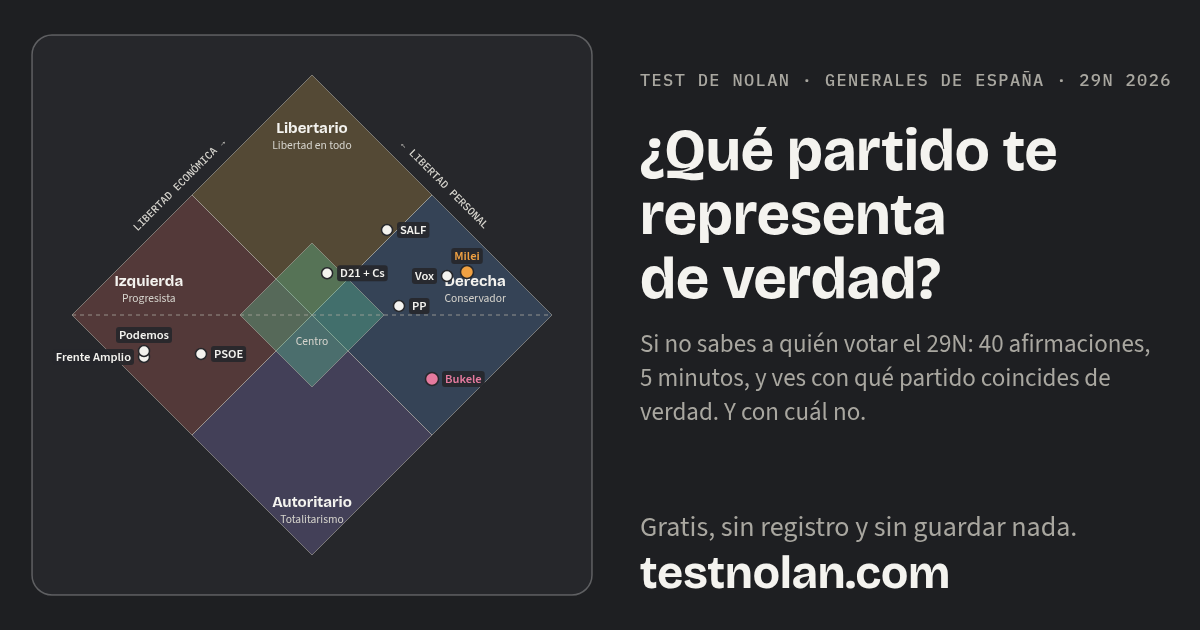
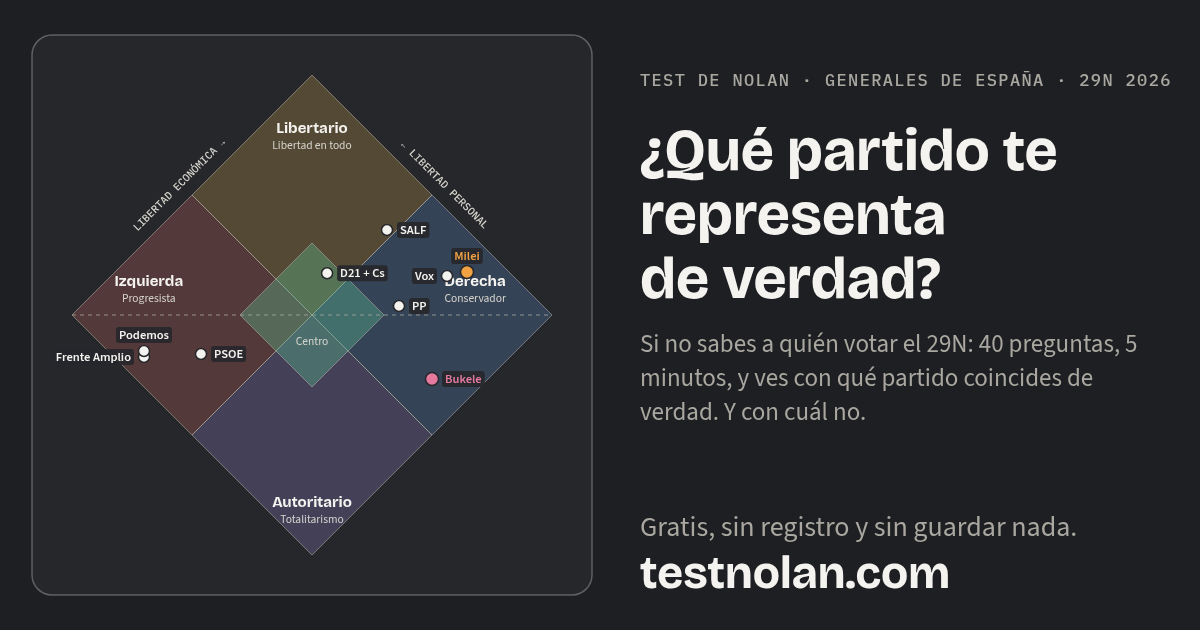
Hablar de preguntas, no de afirmaciones
En todo lo que ve el usuario (portada, cifras, metadescripción, avisos,
imagen de portada y metodología) se dice «preguntas». «Afirmación» queda solo
en la frase que explica la escala: cada pregunta es una afirmación con la que
se puede estar más o menos de acuerdo. Mismo criterio en el README y en
LICENSE-DATA.

Changed region(s): [[0.5242, 0.5127, 0.9558, 0.6333]]

diff --git a/public/es/index.html b/public/es/index.html
@@ -4,7 +4,7 @@
 <meta charset="utf-8">
 <meta name="viewport" content="width=device-width, initial-scale=1, viewport-fit=cover">
 <title>Test de Nolan · Elecciones generales de España 29N 2026</title>
-<meta name="description" content="¿No sabes a quién votar el 29N? Test de Nolan para las elecciones generales de España 2026: 40 afirmaciones, 5 minutos, y ves qué partido te representa de verdad y en qué no coincides con él. PP, PSOE, Vox, Frente Amplio, Podemos, SALF y D21 + Cs. Sin registro y sin guardar nada.">
+<meta name="description" content="¿No sabes a quién votar el 29N? Test de Nolan para las elecciones generales de España 2026: 40 preguntas, 5 minutos, y ves qué partido te representa de verdad y en qué no coincides con él. PP, PSOE, Vox, Frente Amplio, Podemos, SALF y D21 + Cs. Sin registro y sin guardar nada.">
 <link rel="canonical" href="https://testnolan.com/es/">
 <meta name="theme-color" content="#1e1f22">
 
@@ -12,7 +12,7 @@
 <meta property="og:locale" content="es_ES">
 <meta property="og:site_name" content="Test Nolan">
 <meta property="og:title" content="¿Qué partido te representa de verdad? Test de Nolan · 29N 2026">
-<meta property="og:description" content="Si no sabes a quién votar el 29N, 40 afirmaciones y 5 minutos te dicen con qué partido coincides de verdad, y en qué no. Sin registro y sin guardar nada.">
+<meta property="og:description" content="Si no sabes a quién votar el 29N, 40 preguntas y 5 minutos te dicen con qué partido coincides de verdad, y en qué no. Sin registro y sin guardar nada.">
 <meta property="og:url" content="https://testnolan.com/es/">
 <meta property="og:image" content="https://testnolan.com/og-image.png">
 <meta property="og:image:width" content="1200">
@@ -20,7 +20,7 @@
 <meta property="og:image:alt" content="Rombo de Nolan con la posición de los partidos españoles para las elecciones del 29 de noviembre de 2026">
 <meta name="twitter:card" content="summary_large_image">
 <meta name="twitter:title" content="¿Qué partido te representa de verdad? Test de Nolan · 29N 2026">
-<meta name="twitter:description" content="Si no sabes a quién votar el 29N, 40 afirmaciones y 5 minutos te dicen con qué partido coincides de verdad, y en qué no.">
+<meta name="twitter:description" content="Si no sabes a quién votar el 29N, 40 preguntas y 5 minutos te dicen con qué partido coincides de verdad, y en qué no.">
 <meta name="twitter:image" content="https://testnolan.com/og-image.png">
 <meta name="twitter:image:alt" content="Rombo de Nolan con la posición de los partidos españoles para las elecciones del 29 de noviembre de 2026">
 
@@ -379,7 +379,7 @@ body.og #shareCanvas{display:block;width:1200px;height:630px}
   <header class="hero" id="top">
     <div class="hero-txt">
       <h1>¿Qué partido te representa de verdad?</h1>
-      <p class="lede">¿Vas a votar «al menos malo» sin saber muy bien en qué se diferencian? Responde 40 afirmaciones en 5 minutos y mira dónde caes en el rombo junto a PP, PSOE, Vox, Frente Amplio, Podemos, SALF y D21 + Cs: qué partido se parece más a ti y en qué discrepas con él sin saberlo. Luego pásaselo a tus amigos y descubre quién es el facha y quién el rojo del grupo. Los nombres y las puntuaciones viajan en el enlace, así que podéis ir sumándoos al mismo rombo.</p>
+      <p class="lede">¿Vas a votar «al menos malo» sin saber muy bien en qué se diferencian? Responde 40 preguntas en 5 minutos y mira dónde caes en el rombo junto a PP, PSOE, Vox, Frente Amplio, Podemos, SALF y D21 + Cs: qué partido se parece más a ti y en qué discrepas con él sin saberlo. Luego pásaselo a tus amigos y descubre quién es el facha y quién el rojo del grupo. Los nombres y las puntuaciones viajan en el enlace, así que podéis ir sumándoos al mismo rombo.</p>
     </div>
     <div class="hero-chart">
       <div class="panel chart-wrap">
@@ -394,7 +394,7 @@ body.og #shareCanvas{display:block;width:1200px;height:630px}
   </header>
   <section class="facts-wrap" aria-label="Datos del test">
   <ul class="facts">
-    <li><span class="num" id="factQ">40</span><span class="lbl">afirmaciones</span></li>
+    <li><span class="num" id="factQ">40</span><span class="lbl">preguntas</span></li>
     <li><span class="num" id="factT">8</span><span class="lbl">ámbitos</span></li>
     <li><span class="num">7</span><span class="lbl">partidos del 29N</span></li>
     <li><span class="num">5</span><span class="lbl">minutos</span></li>
@@ -477,10 +477,10 @@ body.og #shareCanvas{display:block;width:1200px;height:630px}
       <p>El gráfico se hizo popular a partir de 1987, cuando Marshall Fritz, fundador de Advocates for Self-Government, lo retocó hasta dejarlo en el rombo girado de ahora y lo acompañó de un cuestionario de diez preguntas, el «World's Smallest Political Quiz», que desde que está en internet se ha hecho más de 28 millones de veces. La <em>brújula política</em> que circula por internet desde 2001 es una variante de la misma idea, con otros nombres en los ejes y dibujada como un cuadrado en vez de un rombo.</p>
       <div class="blk">
       <h3>Para qué te sirve a ti</h3>
-      <p>Para votar sabiendo lo que compras. Cuando respondes a afirmaciones concretas en vez de preguntarte si eres de izquierdas o de derechas pasan dos cosas. La primera es que descubres que tus opiniones no son un paquete cerrado y que coincides con partidos distintos en temas distintos. La segunda es que ves de golpe en qué <em>no</em> coincides con el partido al que pensabas votar, que es justo lo que los programas y los mítines no te cuentan. Esto no te dice a quién votar. Te dice con qué estarías tragando sin estar de acuerdo, y eso ya es más de lo que suele saber un votante.</p>
+      <p>Para votar sabiendo lo que compras. Cuando respondes a preguntas concretas en vez de preguntarte si eres de izquierdas o de derechas pasan dos cosas. La primera es que descubres que tus opiniones no son un paquete cerrado y que coincides con partidos distintos en temas distintos. La segunda es que ves de golpe en qué <em>no</em> coincides con el partido al que pensabas votar, que es justo lo que los programas y los mítines no te cuentan. Esto no te dice a quién votar. Te dice con qué estarías tragando sin estar de acuerdo, y eso ya es más de lo que suele saber un votante.</p>
       </div>
-      <p>Aquí lo hemos aplicado a las <strong>elecciones generales de España del 29 de noviembre de 2026</strong>: los siete partidos principales responden las mismas 40 afirmaciones que tú, con lo que dicen sus programas, lo que han votado en el Congreso y lo que declaran sus dirigentes.</p>
-      <p><strong>¿Y qué pintan Milei y Bukele?</strong> Están de referencia, y a propósito. Se les mete en el mismo saco, el de la nueva derecha, y en el rombo están a <span id="refCmp">43 puntos, una distancia parecida a la que separa al PP del PSOE (54)</span>. La diferencia está en qué discrepan: Milei y Bukele chocan en libertades personales, con <span id="refGap">29</span> puntos de diferencia, y el PP y el PSOE chocan en economía. Por eso unos comparten lado y los otros no. Esa es la gracia del gráfico. No toda la derecha es igual ni toda la izquierda es igual, y que un partido te quede cerca no quiere decir que pienses como él en todo. Ojo con Milei: su libertarismo es sobre todo económico. Como presidente ha endurecido las expulsiones, las penas y el poder de la policía, ha limitado las protestas y ha recortado el acceso al aborto, y eso es lo que puntúa aquí. A los dos se les puntúa solo con lo que han hecho, y las afirmaciones que son debates españoles sin equivalente en su país quedan sin dato.</p>
+      <p>Aquí lo hemos aplicado a las <strong>elecciones generales de España del 29 de noviembre de 2026</strong>: los siete partidos principales responden las mismas 40 preguntas que tú, con lo que dicen sus programas, lo que han votado en el Congreso y lo que declaran sus dirigentes.</p>
+      <p><strong>¿Y qué pintan Milei y Bukele?</strong> Están de referencia, y a propósito. Se les mete en el mismo saco, el de la nueva derecha, y en el rombo están a <span id="refCmp">43 puntos, una distancia parecida a la que separa al PP del PSOE (54)</span>. La diferencia está en qué discrepan: Milei y Bukele chocan en libertades personales, con <span id="refGap">29</span> puntos de diferencia, y el PP y el PSOE chocan en economía. Por eso unos comparten lado y los otros no. Esa es la gracia del gráfico. No toda la derecha es igual ni toda la izquierda es igual, y que un partido te quede cerca no quiere decir que pienses como él en todo. Ojo con Milei: su libertarismo es sobre todo económico. Como presidente ha endurecido las expulsiones, las penas y el poder de la policía, ha limitado las protestas y ha recortado el acceso al aborto, y eso es lo que puntúa aquí. A los dos se les puntúa solo con lo que han hecho, y las preguntas que son debates españoles sin equivalente en su país quedan sin dato.</p>
       <p>Con el mismo criterio están <strong>Trump, Putin, Maduro, Mujica y Meloni</strong>, para que el rombo tenga referencias en las cuatro esquinas. Trump cae cerca de Bukele: aranceles, deportaciones, Guardia Nacional contra las protestas y gobierno por decreto. Putin y Maduro comparten el fondo autoritario aunque uno venga de la derecha y el otro de la izquierda. Mujica es el espejo de Milei: izquierda en economía y arriba en libertades, con el cannabis, el aborto y el matrimonio igualitario legalizados en Uruguay. Y Meloni queda a un paso del PP, bastante más ortodoxa de lo que prometía. Puedes apagarlas en la leyenda si te estorban.</p>
       <div class="blk">
       <h3>Límites del modelo</h3>
@@ -492,7 +492,7 @@ body.og #shareCanvas{display:block;width:1200px;height:630px}
   <details class="info" id="meth">
     <summary><span><h2>Cómo se calcula y de dónde salen las posiciones</h2><span class="kicker">Todo el cálculo está a la vista y es el mismo para ti que para los partidos. Si ves un error en alguna posición, abajo tienes cómo avisar.</span></span><span class="plus" aria-hidden="true">+</span></summary>
     <div class="info-body">
-      <p>Cada afirmación pertenece a un eje. Las de economía miden impuestos, gasto, regulación y propiedad. Las de libertades miden cuánto controla el Estado la conducta pacífica de la gente, es decir, expresión, protesta, migración, estilo de vida y garantías ante la policía. Endurecer penas por delitos violentos tras un juicio no cuenta en ninguno de los dos ejes. Los ocho ámbitos en que se agrupan solo ordenan el cuestionario y no cambian el cálculo.</p>
+      <p>Cada pregunta es una afirmación con la que puedes estar más o menos de acuerdo, y pertenece a un eje. Las de economía miden impuestos, gasto, regulación y propiedad. Las de libertades miden cuánto controla el Estado la conducta pacífica de la gente, es decir, expresión, protesta, migración, estilo de vida y garantías ante la policía. Endurecer penas por delitos violentos tras un juicio no cuenta en ninguno de los dos ejes. Los ocho ámbitos en que se agrupan solo ordenan el cuestionario y no cambian el cálculo.</p>
       <p>Tu respuesta va de −2 (muy en contra) a +2 (muy a favor). Si estar de acuerdo implica menos intervención del Estado, suma libertad. Si implica más, resta. La puntuación de cada eje es 50 más 25 por la media de tus respuestas en ese eje, de 0 a 100. Las preguntas que no respondes no cuentan y tampoco te empujan al centro.</p>
       <p>La afinidad con cada partido compara respuesta a respuesta. Es del 100 % si coincidís en todas y del 0 % si estáis en extremos opuestos en todas. «Coincidís» en un tema quiere decir que habéis dado exactamente la misma respuesta, sin contar el neutral. «Discrepáis» quiere decir que estáis a tres o más pasos de distancia en la escala.</p>
       <p><strong>El veredicto</strong> («te representa», «el que más se parece a ti, con matices» o «ninguno del todo») se basa en la afinidad del partido más cercano. Un 85 % o más es el nivel de un votante convencido de ese partido, y también el que se dan entre sí dos partidos hermanos. Frente Amplio y Podemos están al <span id="affFP">95</span> % y Vox y SALF al <span id="affVS">88</span> %. Entre el 75 % y el 84 % hay acuerdo de fondo con diferencias de grado. Por debajo del 75 % la distancia media supera un paso de la escala por pregunta, que es más o menos lo que sale sin opinar nada. Si dos partidos están a 3 puntos o menos se declaran empatados, y no hay veredicto hasta tener 4 respuestas en cada eje. Que un partido «te represente» describe tus respuestas. No es una recomendación de voto.</p>
@@ -625,9 +625,9 @@ const QUESTIONS = [
  {id:'p_euta',  ax:'P', g:'vida', dir:+1, k:'eutanasia', t:'La eutanasia debe seguir siendo legal.', a:[0,2,-2,2,2,null,2,-1,-2,null,-2,null,null,-1],
   c:'La ley de eutanasia (2021) permite a una persona mayor de edad con una enfermedad grave e incurable, o con un padecimiento grave, crónico e imposibilitante, pedir ayuda médica para morir, con varios controles.'},
  {id:'p_matr',  ax:'P', g:'vida', dir:+1, k:'matrimonio igualitario', t:'El matrimonio entre personas del mismo sexo debe seguir siendo legal.', a:[1,2,-1,2,2,1,2,1,-2,1,-2,-1,2,-2],
-  c:'Legal en España desde 2005. La afirmación plantea si debe mantenerse con los mismos derechos que el matrimonio entre personas de distinto sexo, incluida la adopción.'},
+  c:'Legal en España desde 2005. La pregunta plantea si debe mantenerse con los mismos derechos que el matrimonio entre personas de distinto sexo, incluida la adopción.'},
  {id:'p_abor',  ax:'P', g:'vida', dir:+1, k:'aborto', t:'El aborto debe seguir siendo legal en los plazos actuales.', a:[0,2,-2,2,2,-1,1,-2,-2,-1,0,-1,2,-1],
-  c:'La ley actual permite abortar libremente hasta la semana 14 y hasta la 22 por causas médicas. La afirmación plantea si mantener esos plazos.'},
+  c:'La ley actual permite abortar libremente hasta la semana 14 y hasta la 22 por causas médicas. La pregunta plantea si mantener esos plazos.'},
  {id:'p_cann',  ax:'P', g:'vida', dir:+1, k:'cannabis', t:'El cannabis para adultos debería ser legal y estar regulado.', a:[-2,-1,-2,1,2,null,1,-1,-2,0,-2,null,2,-2],
   c:'Legal y regulado significa venta controlada a adultos, con impuestos y requisitos de calidad, como en Canadá o Uruguay, en lugar de la prohibición actual. Alemania ha ido a medio camino, con consumo, cultivo propio y clubes permitidos pero sin venta comercial.'},
  {id:'p_medio', ax:'P', g:'expr', dir:-1, k:'regular los medios', t:'El Gobierno debe poder regular a los medios de comunicación para combatir la desinformación.', a:[-2,2,-1,2,1,-2,null,0,2,1,2,2,1,1],
@@ -639,7 +639,7 @@ const QUESTIONS = [
  {id:'p_chat',  ax:'P', g:'seg', dir:-1, k:'escanear mensajes privados', t:'Las aplicaciones de mensajería deberían escanear los mensajes privados para detectar delitos.', a:[1,2,-2,-1,-1,0,-1,1,2,null,2,1,0,-1],
   c:'Es lo que en Bruselas llaman Chat Control: obligar a WhatsApp, Telegram o Signal a revisar lo que envías para detectar abusos a menores, lo que choca con el cifrado que hoy impide leer tus mensajes. El Gobierno español ha sido uno de los más duros a favor en el Consejo de la UE y llegó a plantear limitar el cifrado. En el Parlamento Europeo los eurodiputados del PP y del PSOE apoyaron en julio de 2026 prorrogar el escaneo voluntario y Vox votó en contra. Las plataformas y los expertos en seguridad lo rechazan.'},
  {id:'p_trans', ax:'P', g:'vida', dir:+1, k:'autodeterminación de género', t:'Las personas deben poder cambiar su sexo legal sin informes médicos.', a:[-2,2,-2,2,2,-1,-1,-1,-2,-2,-2,-1,null,-1],
-  c:'La ley trans (2023) permite cambiar el sexo en el DNI desde los 16 años con una declaración, sin informes médicos ni tratamientos. La afirmación plantea si mantener esa autodeterminación.'},
+  c:'La ley trans (2023) permite cambiar el sexo en el DNI desde los 16 años con una declaración, sin informes médicos ni tratamientos. La pregunta plantea si mantener esa autodeterminación.'},
  {id:'p_armas', ax:'P', g:'seg', dir:1, k:'armas en casa', t:'Debería ser más fácil para un particular tener un arma en casa para defenderse.', a:[-1,-2,2,-2,-2,null,-2,1,1,2,-2,-2,-2,null],
   c:'En España tener un arma exige licencia, pruebas y una justificación, y la defensa personal casi nunca se admite. Vox propuso en 2022 que usar un arma legal contra un intruso en casa se presuma legítima defensa, y el Congreso lo rechazó por 289 votos a 53, con el PP, el PSOE, la izquierda y Ciudadanos en contra. El Gobierno prepara un reglamento con más requisitos para las nuevas licencias.'},
  {id:'p_relig', ax:'P', g:'cost', dir:-1, k:'religión en la vida pública', t:'La religión debería tener más presencia en la escuela y en la vida pública.', a:[1,-1,1,-2,-2,null,-1,null,1,2,2,null,-1,1],
@@ -851,7 +851,7 @@ function verdict(){
   return {level, u, a:top.a, parties:tied.map(r=>r.p), tie:tied.length>1};
 }
 function verdictTexts(v){
-  if(v.level==='insufficient') return {label:'Veredicto', h:'Aún sin veredicto', s:`Responde al menos ${REP_MIN_AXIS} afirmaciones de cada eje y te digo algo.`, short:'', share:''};
+  if(v.level==='insufficient') return {label:'Veredicto', h:'Aún sin veredicto', s:`Responde al menos ${REP_MIN_AXIS} preguntas de cada eje y te digo algo.`, short:'', share:''};
   const names = joinNames(v.parties), bare = joinNames(v.parties,false), pct = `${v.a.toFixed(0)} % de afinidad`;
   if(v.level==='full') return {label:'Veredicto', h: v.tie ? `Te representan por igual ${names}` : `Te representa ${names}`, s:`${pct}. Piensas como ${v.tie?'ellos':'él'} en casi todo lo que has respondido.`, short:`te representa: ${bare}`, share:`Me representa${v.tie?'n':''} ${names}`};
   if(v.level==='partial') return {label:'Veredicto', h: v.tie ? `Los que más se parecen a ti, con matices: ${bare}` : `El que más se parece a ti, con matices: ${bare}`, s:`${pct}. Hay acuerdo de fondo, pero fíjate en qué no coincidís, que ahí está lo interesante.`, short:`se parece: ${bare}`, share:`${v.tie?'Los que más se me parecen':'El que más se me parece'}: ${bare}`};
@@ -865,7 +865,7 @@ function drawResult(){
   const n = Object.keys(answers).length;
   const me = myEntry();
   document.querySelectorAll('#nets .net').forEach(b=>b.disabled = !me); document.getElementById('dlImg').disabled = !me; document.getElementById('copyLink').disabled = !(me || group.length);
-  document.getElementById('shareHint').textContent = !n ? 'Responde unas cuantas afirmaciones y podrás compartir tu punto en el rombo y retar a tu gente a hacer lo mismo.' : !name ? 'Pon tu nombre arriba y se activará el botón de compartir.' : 'Los botones abren la red con el texto y el enlace del grupo ya escritos. La imagen con el rombo se descarga aparte, por si quieres adjuntarla.';
+  document.getElementById('shareHint').textContent = !n ? 'Responde unas cuantas preguntas y podrás compartir tu punto en el rombo y retar a tu gente a hacer lo mismo.' : !name ? 'Pon tu nombre arriba y se activará el botón de compartir.' : 'Los botones abren la red con el texto y el enlace del grupo ya escritos. La imagen con el rombo se descarga aparte, por si quieres adjuntarla.';
   drawStrip(u, n);
   if(!n){
     r.innerHTML = `<div class="result-head"><h2>Tu posición</h2></div>
@@ -1032,7 +1032,7 @@ function drawProgress(){
 function drawTable(){
   const tb = document.querySelector('#ptable tbody');
   tb.innerHTML = PARTIES.map(p=>{ const s=partyScores[p.id]; return `<tr><td>${p.name}</td><td>${p.full} · ${p.lead}${p.note?`<br><span class="note">${p.note}</span>`:''}</td><td class="num">${Math.round(s.E)}</td><td class="num">${Math.round(s.P)}</td></tr>`; }).join('');
-  document.getElementById('dataVersion').textContent = `Datos de partidos y preguntas: versión ${DATA_VERSION}, actualizada el ${DATA_DATE}. ${QUESTIONS.filter(q=>q.ax==='E').length} afirmaciones de economía y ${QUESTIONS.filter(q=>q.ax==='P').length} de libertades, en ${TOPICS.length} ámbitos. El registro de cambios y las fuentes están en el repositorio.`;
+  document.getElementById('dataVersion').textContent = `Datos de partidos y preguntas: versión ${DATA_VERSION}, actualizada el ${DATA_DATE}. ${QUESTIONS.filter(q=>q.ax==='E').length} preguntas de economía y ${QUESTIONS.filter(q=>q.ax==='P').length} de libertades, en ${TOPICS.length} ámbitos. El registro de cambios y las fuentes están en el repositorio.`;
 }
 
 function refresh(full=true){ if(full) drawQuestions(); drawChart(); drawResult(); drawGroup(); drawProgress(); }
@@ -1146,7 +1146,7 @@ async function renderShareImage(imgMode){
     t('representa', X, 234, '700 60px "Bricolage Grotesque", system-ui, sans-serif', ink);
     t('de verdad?', X, 298, '700 60px "Bricolage Grotesque", system-ui, sans-serif', ink);
     ctx.font='400 25px "Source Sans 3", system-ui, sans-serif'; ctx.fillStyle=muted; ctx.textAlign='left';
-    wrapText(ctx, `Si no sabes a quién votar el 29N: ${QUESTIONS.length} afirmaciones, 5 minutos, y ves con qué partido coincides de verdad. Y con cuál no.`, X, 352, COLW, 34);
+    wrapText(ctx, `Si no sabes a quién votar el 29N: ${QUESTIONS.length} preguntas, 5 minutos, y ves con qué partido coincides de verdad. Y con cuál no.`, X, 352, COLW, 34);
     t('Gratis, sin registro y sin guardar nada.', X, 536, '400 28px "Source Sans 3", system-ui, sans-serif', muted);
   }
   t(SITE_SHORT, X, 588, '700 46px "Bricolage Grotesque", system-ui, sans-serif', accent);

diff --git a/README.md b/README.md
@@ -72,20 +72,20 @@ El test **no recomienda votar a nadie**. Muestra afinidad con las posiciones est
 Existe un prototipo funcional en un único archivo, `index.html`, con todo el CSS y el JavaScript incrustados, más `og-image.png` (imagen fija para Open Graph). Incluye:
 
 - Rombo de Nolan dibujado en SVG con las cinco zonas, la línea media discontinua y los ejes rotulados.
-- **40 afirmaciones** (20 de economía y 20 de libertades) con escala de 5 puntos. Cada una lleva una etiqueta corta de tema (`k`) y un **contexto en lenguaje llano** (`c`) que se despliega con «¿Qué significa?» justo encima de la escala, a todo el ancho de la pregunta. Debajo de las respuestas de los partidos, otro desplegable, «¿Por qué responde así cada partido?», muestra para cada partido y referencia su posición, una frase con el hecho que la justifica y el enlace a la fuente. Son 560 frases, 14 por pregunta. Están en el bloque `<script type="application/json" id="whyData">` de `index.html`, con la forma `{partido:{pregunta:[frase, url]}}`, y se leen solo al abrir el desplegable.
+- **40 preguntas** (20 de economía y 20 de libertades) con escala de 5 puntos. Cada una lleva una etiqueta corta de tema (`k`) y un **contexto en lenguaje llano** (`c`) que se despliega con «¿Qué significa?» justo encima de la escala, a todo el ancho de la pregunta. Debajo de las respuestas de los partidos, otro desplegable, «¿Por qué responde así cada partido?», muestra para cada partido y referencia su posición, una frase con el hecho que la justifica y el enlace a la fuente. Son 560 frases, 14 por pregunta. Están en el bloque `<script type="application/json" id="whyData">` de `index.html`, con la forma `{partido:{pregunta:[frase, url]}}`, y se leen solo al abrir el desplegable.
 - Posición de cada partido calculada a partir de sus respuestas, con el mismo cálculo que el usuario.
 - Punto **"Tú"** que se mueve en el rombo según se responde.
 - **Veredicto** en «Tu posición», basado en la afinidad del partido más cercano (sin las referencias internacionales): 85 % o más, «te representa»; de 75 % a 84 %, «el que más se parece a ti, con matices»; por debajo, «ningún partido te representa del todo» indicando el más cercano. Si el segundo está a 3 puntos o menos se declara empate («te representan por igual X e Y»), y no hay veredicto hasta tener 4 respuestas por eje. Los cuatro umbrales son constantes (`REP_FULL`, `REP_PARTIAL`, `REP_TIE`, `REP_MIN_AXIS`). Calibración: un votante convencido que se desvía un paso en la mitad de las preguntas obtiene ~91 %; responder al azar da ~64 % con el mejor partido; todo neutral da hasta 77 % con los partidos moderados; Frente Amplio y Podemos están al 95 % entre sí, Vox y SALF al 88 %, PSOE y Frente Amplio al 85 %. El veredicto sale también en la franja, en la columna fija, en la imagen compartida y en el texto de compartir.
 - Ranking de **afinidad por respuestas** con cada partido, y un bloque **«En qué coincides y en qué no»** con los tres partidos más cercanos (ampliable a todos): temas en los que has dado la misma respuesta (sin contar el neutral) y temas en los que estás a tres o más pasos de distancia.
 - En cada pregunta, **qué responde cada partido** siempre visible, alineado bajo la opción correspondiente de la escala (la columna de tu respuesta queda marcada). Volver a pulsar la opción elegida la quita.
 - Leyenda para mostrar u ocultar partidos.
-- **Paginación por ámbitos**: las 40 afirmaciones se agrupan en 8 ámbitos de 4 a 6 preguntas, alternando economía y libertades (Impuestos y gasto público; Vida privada y derechos; Vivienda; Expresión, protesta y redes; Trabajo y pensiones; Inmigración y seguridad; Estado, empresa y medio ambiente; Costumbres e instituciones). Se muestra un ámbito por página, con un indicador de pasos que lleva a cualquiera y marca cuántas van respondidas en cada uno, botones Anterior / Siguiente ámbito y, en el último, «Ver mi resultado». El ámbito actual se recuerda. Los ámbitos (`TOPICS`, campo `g` de cada pregunta) solo ordenan el cuestionario; no afectan al cálculo. Orden de la página: portada con el título y la descripción a la izquierda y el **rombo con todos los partidos a la derecha** (en móvil, debajo), la fila de cifras, la **zona de trabajo** con las preguntas, y debajo el **tablero de tres columnas**: rombo con leyenda, «Tu posición» (puntuaciones y afinidad) y «Compártelo con tu grupo» (tu nombre, la lista del grupo, añadir a mano y los botones de compartir, activos cuando hay respuestas y nombre). Después, las secciones plegadas de explicación y el pie. La zona de trabajo va en dos columnas: a la izquierda una columna fija (sticky) con una miniatura viva del rombo (vía `<use>` del mismo SVG), la zona, las puntuaciones, el partido más afín y el panel «En qué coincides y en qué no»; a la derecha, las preguntas paginadas. Así el punto se mueve y las coincidencias cambian a la vista mientras se responde. En móvil la columna fija pasa debajo de las preguntas (sin la miniatura) y una **franja fija superior** con la miniatura, la zona y las puntuaciones hace esa función.
+- **Paginación por ámbitos**: las 40 preguntas se agrupan en 8 ámbitos de 4 a 6 preguntas, alternando economía y libertades (Impuestos y gasto público; Vida privada y derechos; Vivienda; Expresión, protesta y redes; Trabajo y pensiones; Inmigración y seguridad; Estado, empresa y medio ambiente; Costumbres e instituciones). Se muestra un ámbito por página, con un indicador de pasos que lleva a cualquiera y marca cuántas van respondidas en cada uno, botones Anterior / Siguiente ámbito y, en el último, «Ver mi resultado». El ámbito actual se recuerda. Los ámbitos (`TOPICS`, campo `g` de cada pregunta) solo ordenan el cuestionario; no afectan al cálculo. Orden de la página: portada con el título y la descripción a la izquierda y el **rombo con todos los partidos a la derecha** (en móvil, debajo), la fila de cifras, la **zona de trabajo** con las preguntas, y debajo el **tablero de tres columnas**: rombo con leyenda, «Tu posición» (puntuaciones y afinidad) y «Compártelo con tu grupo» (tu nombre, la lista del grupo, añadir a mano y los botones de compartir, activos cuando hay respuestas y nombre). Después, las secciones plegadas de explicación y el pie. La zona de trabajo va en dos columnas: a la izquierda una columna fija (sticky) con una miniatura viva del rombo (vía `<use>` del mismo SVG), la zona, las puntuaciones, el partido más afín y el panel «En qué coincides y en qué no»; a la derecha, las preguntas paginadas. Así el punto se mueve y las coincidencias cambian a la vista mientras se responde. En móvil la columna fija pasa debajo de las preguntas (sin la miniatura) y una **franja fija superior** con la miniatura, la zona y las puntuaciones hace esa función.
 - Barra de progreso global de 2 px y botón «Borrar todas mis respuestas» (con confirmación en dos pulsaciones) al pie de la página de preguntas.
 - **Atajos de teclado**: `1`–`5` responden la pregunta activa y pasan a la siguiente (la misma tecla quita la respuesta); flechas o `j`/`k` cambian de pregunta y, en los bordes, de ámbito. La pista solo se muestra en dispositivos con puntero.
 - **Nombre opcional para tu punto**: sustituye a «Tú» en el rombo, viaja en el enlace de comparación (`&n=`) y aparece en la imagen compartida («A Marta le sale…»).
 - Dos secciones informativas **plegadas por defecto** (solo título y una línea de entradilla; al abrir, el texto ocupa todo el ancho, en dos columnas de lectura en pantallas anchas; los enlaces de la barra superior las abren): **«Qué es el test de Nolan y por qué sirve»** (la línea izquierda-derecha frente a los dos ejes; David Nolan, el artículo de 1971 y el Partido Libertario; Marshall Fritz y el «World's Smallest Political Quiz» de 1987; la brújula política de 2001; para qué le sirve a quien no sabe a quién votar; límites del modelo) y **«Cómo se calcula y de dónde salen las posiciones»** (ejes, puntuación, afinidad, veredicto, estimaciones, circunscripciones, tabla de posiciones, versión de los datos y fuentes). La barra superior enlaza a las dos.
-- **Accesibilidad**: auditada con axe-core sin infracciones en escritorio ni en móvil. `lang="es"`, un solo `h1` y jerarquía de títulos, enlace «Saltar al test» visible al tabular, foco visible en todos los controles, landmarks con nombre (portada, cifras, test, resultado, secciones informativas, pie), la escala de respuestas como grupo de radios etiquetado por la afirmación, descripción del SVG que se actualiza con la posición del usuario, chips de la leyenda con `aria-pressed`, avisos de copia y descarga con `role="status"`, enlaces «fuente» con etiqueta que dice de qué partido son, contraste mínimo 4,5:1 en todo el texto incluido el que va sobre las zonas del rombo, y `prefers-reduced-motion` respetado.
-- **Diseño**: tema oscuro único de grafito medio (`#1e1f22`) con texto blanco papel (`#f4f3ef`) y secundario `#d6d4cd`, pensado para que el texto se lea bien sin ser negro puro. Tipografía Bricolage Grotesque para títulos y afirmaciones (en seminegrita), Source Sans 3 para texto e IBM Plex Mono para cifras y etiquetas. Sin degradados ni sombras: filetes de 1 px, controles segmentados, numerales tabulares. Portada en dos columnas, texto y rombo, y una fila de cifras clave debajo. Preguntas en filas separadas por filetes con número `01 / 40`. En móvil las tres columnas del tablero se apilan en el mismo orden y la columna fija de coincidencias pasa debajo de las preguntas. `prefers-reduced-motion` desactiva las transiciones. La imagen de Open Graph y la de compartir usan el mismo tema.
+- **Accesibilidad**: auditada con axe-core sin infracciones en escritorio ni en móvil. `lang="es"`, un solo `h1` y jerarquía de títulos, enlace «Saltar al test» visible al tabular, foco visible en todos los controles, landmarks con nombre (portada, cifras, test, resultado, secciones informativas, pie), la escala de respuestas como grupo de radios etiquetado por la pregunta, descripción del SVG que se actualiza con la posición del usuario, chips de la leyenda con `aria-pressed`, avisos de copia y descarga con `role="status"`, enlaces «fuente» con etiqueta que dice de qué partido son, contraste mínimo 4,5:1 en todo el texto incluido el que va sobre las zonas del rombo, y `prefers-reduced-motion` respetado.
+- **Diseño**: tema oscuro único de grafito medio (`#1e1f22`) con texto blanco papel (`#f4f3ef`) y secundario `#d6d4cd`, pensado para que el texto se lea bien sin ser negro puro. Tipografía Bricolage Grotesque para títulos y preguntas (en seminegrita), Source Sans 3 para texto e IBM Plex Mono para cifras y etiquetas. Sin degradados ni sombras: filetes de 1 px, controles segmentados, numerales tabulares. Portada en dos columnas, texto y rombo, y una fila de cifras clave debajo. Preguntas en filas separadas por filetes con número `01 / 40`. En móvil las tres columnas del tablero se apilan en el mismo orden y la columna fija de coincidencias pasa debajo de las preguntas. `prefers-reduced-motion` desactiva las transiciones. La imagen de Open Graph y la de compartir usan el mismo tema.
 - Persistencia de respuestas solo en el navegador del usuario (`localStorage`, clave `testnolan-es-2026`, con `try/catch`). Nada sale del dispositivo.
 - **Tono de los textos**: cercano y directo, pensado para quien no sabe a quién votar o va a votar «al menos malo». La portada es un solo párrafo corto a todo el ancho: para quién es (quien va a votar «al menos malo»), cuánto se tarda (5 minutos), qué va a ver (qué partido se le parece más y en qué discrepa sin saberlo) y la invitación a pasárselo a quien se vaya a llevar una sorpresa. Lo de que no lo ha hecho ningún partido y no guarda nada queda en la fila de cifras y en el pie. El titular es «¿Qué partido te representa de verdad?» y la palabra clave «test de Nolan» queda en la etiqueta superior, el título de la pestaña y los metadatos. La metodología y el pie mantienen la precisión pero sin formalismos.
 - Esqueleto HTML completo (`lang="es"`, `charset`, `viewport`), título y descripción orientados a buscar «test de Nolan elecciones generales España 29N», etiquetas Open Graph y Twitter Card, `canonical` a `https://testnolan.com/es/` y datos estructurados JSON-LD.
@@ -133,7 +133,7 @@ puntuación = 50 + 25 × media(respuesta × dir)
 
 Da un valor de 0 a 100, donde 50 es el punto neutro. Se calcula igual para el usuario y para cada partido.
 
-Una respuesta de partido puede ser `null`, que significa **sin dato**: no hay programa, voto ni declaración que permita puntuarla. No es lo mismo que 0 (neutral o posición ambigua documentada). Las casillas sin dato no entran en la media del partido, ni en la afinidad, ni en las coincidencias, y la web lo indica en el desplegable de cada pregunta. Se usa sobre todo con las referencias internacionales, porque varias afirmaciones son debates españoles sin equivalente en sus países, y con SALF, que a 1 de noviembre de 2026 no ha publicado programa.
+Una respuesta de partido puede ser `null`, que significa **sin dato**: no hay programa, voto ni declaración que permita puntuarla. No es lo mismo que 0 (neutral o posición ambigua documentada). Las casillas sin dato no entran en la media del partido, ni en la afinidad, ni en las coincidencias, y la web lo indica en el desplegable de cada pregunta. Se usa sobre todo con las referencias internacionales, porque varias preguntas son debates españoles sin equivalente en sus países, y con SALF, que a 1 de noviembre de 2026 no ha publicado programa.
 
 ### Afinidad con cada partido
 
@@ -233,11 +233,11 @@ Notas:
 
 Respuestas de los partidos en el orden: PP, PSOE, Vox, Frente Amplio, Podemos, SALF, D21 + Cs, Milei, Bukele, Trump, Putin, Maduro, Mujica, Meloni. Valores de −2 a +2. El punto (·) es «sin dato»: no cuenta en la posición ni en la afinidad.
 
-Las afirmaciones se redactan de la forma más general posible, como principios y no como medidas concretas de un partido, para que el test mida ideas y no eslóganes.
+Las preguntas se redactan como afirmaciones generales, principios y no medidas concretas de un partido, con las que se puede estar más o menos de acuerdo, para que el test mida ideas y no eslóganes.
 
 ### Economía (20)
 
-| id | Afirmación | dir | Respuestas |
+| id | Pregunta | dir | Respuestas |
 |---|---|:-:|---|
 | e_irpf | Hay que bajar el impuesto sobre la renta aunque el Estado recaude menos. | +1 | 2, −1, 2, −2, −2, 2, 1, 0, 1, 2, 0, −2, −2, 2 |
 | e_suc | Deberían suprimirse los impuestos de sucesiones y de patrimonio. | +1 | 2, −2, 2, −2, −2, 2, 1, 2, ·, 2, 2, −2, −1, 1 |
@@ -262,7 +262,7 @@ Las afirmaciones se redactan de la forma más general posible, como principios y
 
 ### Libertades (20)
 
-| id | Afirmación | dir | Respuestas |
+| id | Pregunta | dir | Respuestas |
 |---|---|:-:|---|
 | p_expul | Hay que expulsar de forma masiva a los inmigrantes en situación irregular. | −1 | 0, −2, 2, −2, −2, 2, −1, 1, 1, 2, 2, 1, −2, 1 |
 | p_prior | Las ayudas públicas deben dar prioridad a los ciudadanos del país frente a los extranjeros con residencia legal. | −1 | 0, −2, 2, −2, −2, 1, −1, 2, ·, 2, 2, ·, −1, 1 |
@@ -425,8 +425,8 @@ Previsto para más adelante: `CONTRIBUTING.md`, una plantilla de issue para prop
 ## Limitaciones y advertencias
 
 - **Las respuestas de los partidos son estimaciones**, no posiciones oficiales. Se basan en anuncios de precampaña, votaciones y declaraciones hasta el 31 de octubre de 2026.
-- **El resultado depende del cuestionario.** Con otras preguntas los puntos se moverían. Por ejemplo, en la versión 1.2 el PP salía en el centro, a un punto de la zona libertaria, y D21 + Cs en la zona libertaria, porque dos afirmaciones de seguridad tenían a casi todos los partidos en «muy en contra» y subían a todos. Al sustituirlas por debates reales (ley mordaza, prisión permanente, ofensas a símbolos, Chat Control), añadir armas y toros y dejar sin dato lo que no tiene fuente, el PP y Vox bajaron unos doce puntos, D21 + Cs pasó al centro y Bukele a la esquina autoritaria. Por eso el equilibrio de las preguntas importa tanto como las respuestas: una afirmación en la que todos coinciden no mide nada.
-- **Las referencias internacionales** (Milei, Bukele, Trump, Putin, Maduro, Mujica y Meloni) se puntúan solo con lo que han hecho como gobernantes. Las afirmaciones que son debates españoles sin equivalente en Argentina o El Salvador quedan «sin dato» y no cuentan, así que su posición se calcula sobre menos preguntas y es más extrema.
+- **El resultado depende del cuestionario.** Con otras preguntas los puntos se moverían. Por ejemplo, en la versión 1.2 el PP salía en el centro, a un punto de la zona libertaria, y D21 + Cs en la zona libertaria, porque dos preguntas de seguridad tenían a casi todos los partidos en «muy en contra» y subían a todos. Al sustituirlas por debates reales (ley mordaza, prisión permanente, ofensas a símbolos, Chat Control), añadir armas y toros y dejar sin dato lo que no tiene fuente, el PP y Vox bajaron unos doce puntos, D21 + Cs pasó al centro y Bukele a la esquina autoritaria. Por eso el equilibrio de las preguntas importa tanto como las respuestas: una pregunta en la que todos coinciden no mide nada.
+- **Las referencias internacionales** (Milei, Bukele, Trump, Putin, Maduro, Mujica y Meloni) se puntúan solo con lo que han hecho como gobernantes. Las preguntas que son debates españoles sin equivalente en Argentina o El Salvador quedan «sin dato» y no cuentan, así que su posición se calcula sobre menos preguntas y es más extrema.
 - **El modelo de Nolan simplifica**: reduce la política a dos ejes y deja fuera, entre otros, el eje territorial, que en España es muy relevante.
 - El test **no es una encuesta** ni pretende representar a la población.
 
@@ -447,6 +447,6 @@ No se aceptan cambios sin fuente ni discusiones de opinión política en los iss
 ## Licencia
 
 - **Código** (HTML, CSS, JavaScript): [MIT](LICENSE).
-- **Datos** (afirmaciones, contextos, posiciones de cada partido y referencia, frases de justificación con sus fuentes y documentos de `docs/`): [CC BY 4.0](LICENSE-DATA), que permite reutilizarlos con cualquier fin citando la fuente: «Datos de testnolan.com, Robert Menetray, CC BY 4.0».
+- **Datos** (preguntas, contextos, posiciones de cada partido y referencia, frases de justificación con sus fuentes y documentos de `docs/`): [CC BY 4.0](LICENSE-DATA), que permite reutilizarlos con cualquier fin citando la fuente: «Datos de testnolan.com, Robert Menetray, CC BY 4.0».
 
 © 2026 Robert Menetray · [menetray.com](https://menetray.com)
